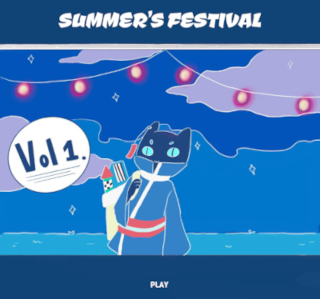
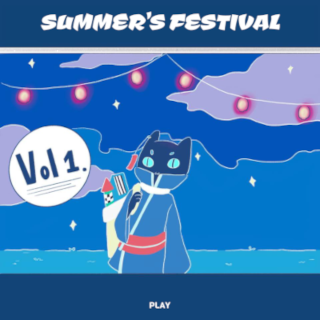
update intro page
- adding github repo link
- adding link to website for game
- updating the start screen image
- mentioning which version of babylon is being used at this point in time

diff --git a/content/How_To/Create_A_Game/page1.md b/content/How_To/Create_A_Game/page1.md
@@ -2,7 +2,7 @@
 
 ## Introduction
 
-Hello everyone, this is capucat, I'm an intern on the team! My project for this summer was to develop a game using Babylon.js and share my learnings through this tutorial.
+Hello everyone, this is capucat, I'm an intern on the team! My project for this summer was to develop a game using Babylon.js (4.1) and share my learnings through this tutorial.
 
 The game I created is Hanabi, or Summer's Festival. It's a short 3D platformer based on the summer festivals and papern lantern lighting. The story is about this cat whose family works on crafting all lanterns and fireworks for the village. Every year there's a special summer festival where they have a firework show to start it off. The goal is to navigate through the village, lighting all of the lanterns before delivering the fireworks to the top mountain shrine. You have only 1 hour (4 minutes real-time) and 1 sparkler (20 second lifetime).
 
@@ -12,11 +12,13 @@ I was a complete beginner when it came to working with Babylon.js, so this was a
 
 ![gameplay](/img/how_to/create-a-game/gameplay.gif)
 
-## Summary
+**Check out the game [here](https://capucat.github.io/summers-festival/)!**
 
+## Summary
 Starting with setting up a project locally, this series will walk you through how I went about creating this game, linking all relevant files. This series isn't meant to be a guide to a perfect game, but rather a reflection of a learning process. Game development is meant to be an iterative process, so this series isn't a step by step of how I developed the game; however, I've done my best to break it down into sections that explain concepts and the overall methods of what I found worked best.
 
 It's important to note that this game only scratches the surface of what Babylon.js has to offer, so feel free to modify and experiment with different features!
 
 # Further Reading
+[Github Codebase](https://github.com/BabylonJS/SummerFestival)  
 **Next:** [Getting set up](/How_To/page2)
